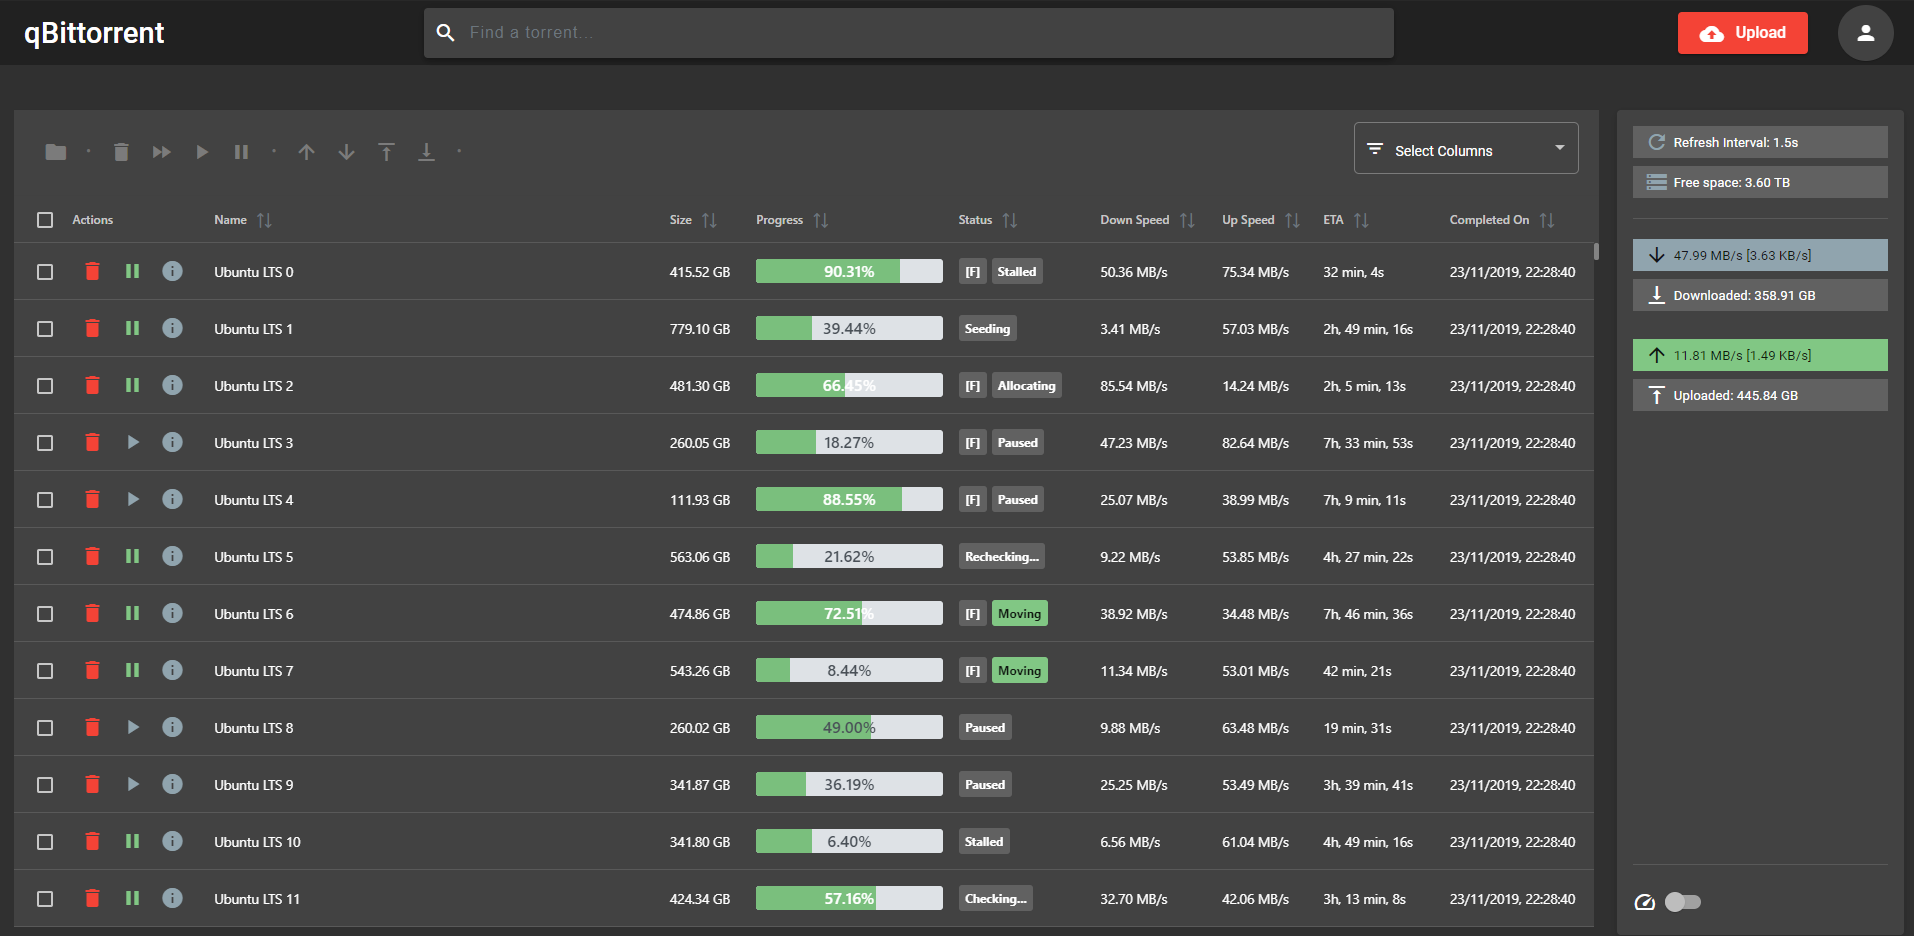
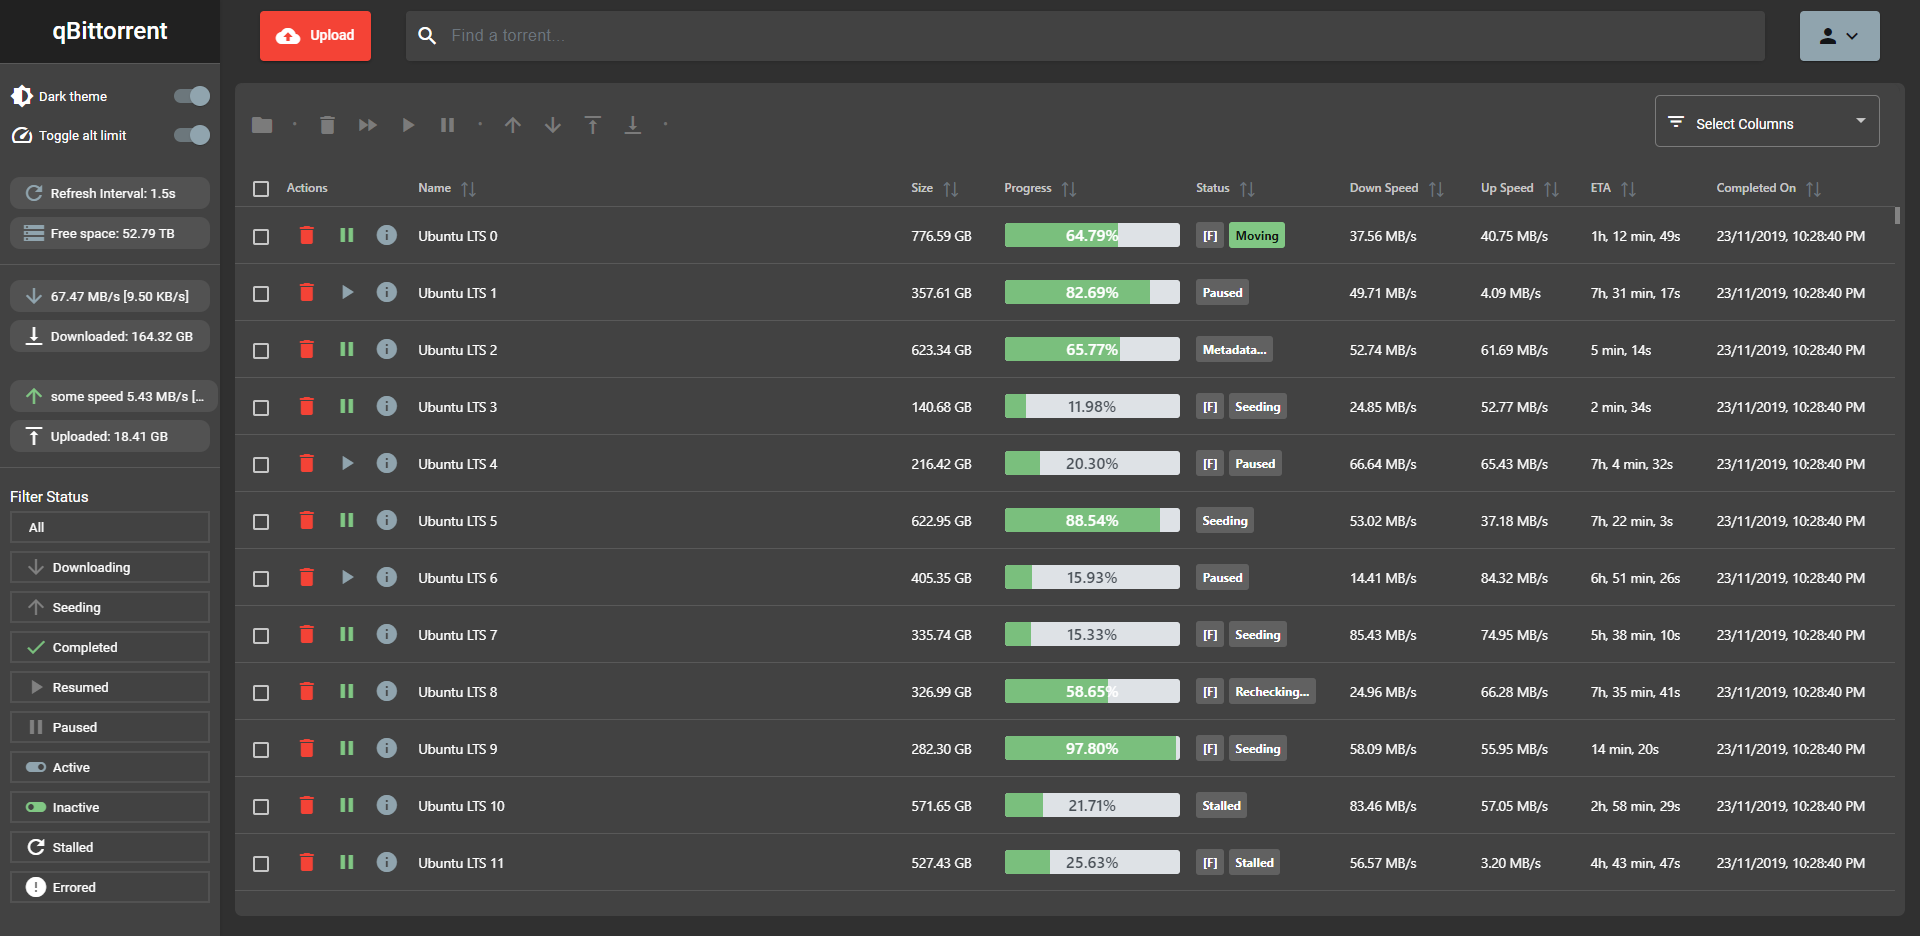
update screenshot

diff --git a/README.md b/README.md
@@ -1,6 +1,6 @@
 # qBit MatUI <br/>[![Qbit Material WebUI Build](https://github.com/bill-ahmed/qbit-matUI/actions/workflows/nodejs.yml/badge.svg?branch=master)](https://github.com/bill-ahmed/qbit-matUI/actions/workflows/nodejs.yml)
 
-<img src="builds/images/home_page_dark_shadow.png" alt="Home Page"/>
+<img src="builds/images/home_page_dark.png" alt="Home Page"/>
 
 A material-themed UI for [qBittorrent](https://github.com/qbittorrent/qBittorrent). This interface is more slimmed down, although still contains several features such as:
 
